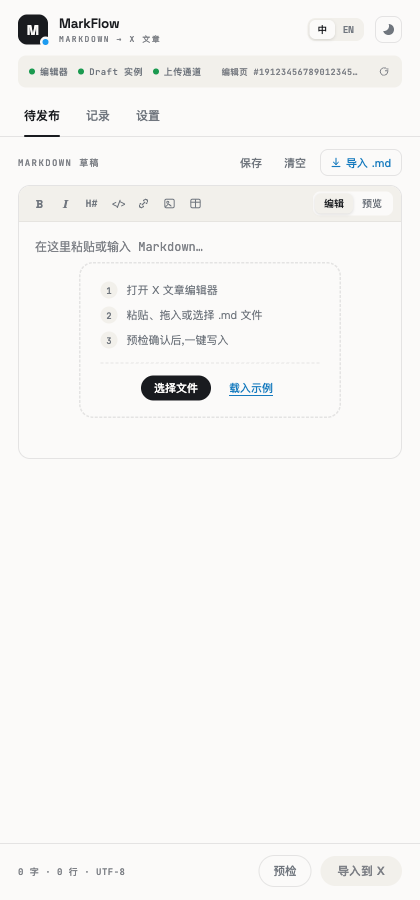
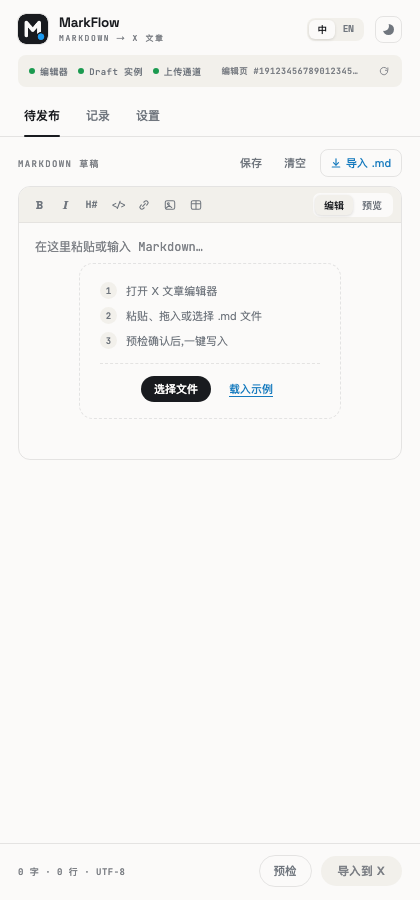
release: v0.5.1 — 版本号、CHANGELOG 定版、README 截图与隐私政策联系方式
做了什么:
- package.json 0.5.0 → 0.5.1;CHANGELOG [Unreleased] 定版为 [0.5.1] - 2026-11-16,注明同时发布未单独打 tag 的 [0.5.0];
  [0.5.0] 标为「未单独发布(随 0.5.1 发布)」;对比链接改为 v0.4.0...v0.5.1。
- README 状态改为 v0.5.1;docs/qa/shots 13 张实现截图按新 Logo 重拍(设置页显示 v0.5.1);
  docs/qa/README.md 补截图采集的模拟接口要求、订正倍率说明。
- 隐私政策联系方式改为 GitHub issues 地址(不留邮箱);发版清单与 HANDOFF 同步。

如何验证:
- tsc --noEmit、pnpm lint、pnpm test(930 通过);pnpm zip 产出 x-md-importer-0.5.1-chrome.zip,内含 manifest version 0.5.1、权限不变。
- extract-release-notes.mjs 0.5.1 能取出 [0.5.1] 段。

回滚:
- 合并前关闭 PR 即可;合并后 git revert,未打 tag 前无对外影响。

diff --git a/HANDOFF.md b/HANDOFF.md
@@ -8,7 +8,7 @@
 > - 更新时重点维护：`## 5 当前进度`、`## 9 待办与路线图`、`## 11 最近一次会话小结`，并在顶部更新「最后更新」。
 > - **工作流**：每批改动 **先 code review + 修复，再提交**；走 **feature 分支 → PR → 合并 main**，不直接推 main。
 
-**最后更新**:2026-11-13 · main `36734bb` + 分支 `fix/title-stale-dom`(标题残留修复,待合入)· **v0.5.0 不再单独打 tag,0.5.0 的改动随 0.5.1 一并发布**。2026-11-04 起:A11 切文章覆盖修复(PR #48)、0.5.0 / 0.5.1 回归清单合并为 `docs/qa/真机回归执行清单-v0.5.1-发版.md`(PR #49,现 45 条)、2026-11-13 会话的 5 个 PR(#50–#54:导入后守护与诊断、底部按钮折行 + 主按钮改名「导入到 X」、记录单删二次确认、偶发失败的性能单测、撤销诊断、**X 用旧快照覆盖正文时自愈**)均已合入 main。单测 930。**接下来**:合入标题修复 → 用 main 构建按 0.5.1 发版清单跑真机回归 → 按清单 §7 改版本号为 0.5.1、CHANGELOG 定版、打 `v0.5.1`。
+**最后更新**:2026-11-16 · 分支 `release/v0.5.1`(版本号 0.5.1、CHANGELOG 定版、README 截图重拍)· 0.5.1 真机回归 45 条已跑完(A 组全部通过,B / C 组除 R-C5 BLOCKED、R-C6 N/A 外全部通过;结果见清单 §5),期间修复焦点环被裁(PR #57)、侧边栏 Logo 改用扩展图标(PR #58)。v0.5.0 未单独打 tag,随 0.5.1 发布。单测 930。**接下来**:发版 PR 合并后打 `v0.5.1`、核对 GitHub Release 与 zip、发布隐私政策、上传商店;0.5.2 计划见 §9。
 
 ---
 
@@ -29,7 +29,7 @@
 - **本次刚做(2026-11-13,PR #50–#54 + 标题修复分支)**:从「导入后图片上方残留占位符」一路排查到根因——**X 会偶发把编辑器整体替换成更早的快照(正文 + 撤销历史一起),且常把图片先插在文末**;插件现在导入收尾先等 X 正文保存稳定,再逐张核对图片(错位归位、丢图补传、补不回如实报 `image-lost`),导入后 60 秒守护同步兜底,撤销时让位并打撤销诊断。顺带:底部操作栏按钮不折行、主按钮改名「导入到 X」、记录单删的二次确认看得见且防连点误删、解析器性能单测去偶发假红;在编辑页里新建草稿后导入标题不再丢(分支 `fix/title-stale-dom`)。真机回归 R-B20(回放旧快照 a–e)、R-A12 均通过。详见 §11。
 - **上一轮(2026-10-26 全面审查 + 三批修复)**:四路审查 → 31 项问题 + 9 条优化。第一批(`$$` 不吞正文、去标题按块、引用里的代码、草稿保存回声、报告记实际开关)与第二批(未闭合围栏 / HTML 注释 / frontmatter 转义 / 强调与链接、侧边栏状态与文案、隐私政策订正)并入 0.5.0;第三批进 0.5.1——解析边角(P6 / P11 / P12)、历史保存回声(H1)、草稿写失败退避重试(O7)、空稿不留 `x`(I2)、滚动到顶部滚对容器(I4)、ESLint 进 CI(C1)、一次解析共享(C2:写入 131 → 40 ms、按键 54 → 30 ms 且延后)、预览改为「写进 X 的样子」并去掉 react-markdown(C3:侧边栏 JS 450 → 294 KB)、设置 / 偏好共用同步 hook(C4)。单测 738 → 851。详见 §11。
 - **v0.5.0 定版内容**:两轮上线前审查的修复合集。① 8 月审查(`docs/review/上线前全面审查-2026-08-18.md`)五批修复——存储写失败可见、草稿/历史多窗口同步、tabId+articleId 双钥钉死、committed 区分、marker 剥离保文本、解析 12 项、备份恢复安全化、Toast 分型、对比度等;② 10 月发版前复审(`docs/review/发版前审查-2026-10-22.md`)阶段 0～3——pnpm pin 修复、A1 同行多张带链接图片(P0)、B1 图片阶段 settle 谓词等待(P0)、B3 `/compose/articles` 写入闸门、去 `tabs` 权限改 host_permissions、`minimum_chrome_version` 116、manifest `_locales` 国际化、A2 强调符 flanking、B2 超时晚到 MEDIA 追回 + orphan 审计、C2 设置多窗口同步、C9 本地图文件名索引、B9 回传校验、B10 SSRF 补漏、字体只打 latin woff2(1.11MB→约 640KB)。单测 307→646。版本号 0.5.0、CHANGELOG 定版、README / 隐私政策 / NOTICE / QA T16～T21 已同步。〔v0.4.0〕数学块 `$$` → X 原生 LaTeX 块(真机验证)。 〔打 tag 前复审修复(2026-10-23,本分支)〕对 PR #33 的五路审查 → 对抗性核实 → 方案评审后,修复核实属实的 #33 引入回归与旧问题:本地图同名多处报 `local-ambiguous`(不再静默选错图)、删除末轮 FIFO(无法归属的晚到图如实上报 `orphan-media` / `media-order-uncertain`)、权限被拒 toast 只计确实未授权的域名并剔除被拦主机、ask 拒绝权限后确认覆盖不二次弹窗、`isBlockedHost` 补漏、标题抽取改取解析主循环上报的标题(P3)并隔离解析开关(P7)、`findClosing` 记忆化(P1/P2)、列表续行 `2024.`(P5)、frontmatter `cover` 整行判定(P6)。P4(列表下 4 空格缩进的围栏 / 引用 / 标题、Tab 制表位)推迟 0.5.1,见 backlog。
-- **还没做(发版前)**:① 合入 `fix/title-stale-dom`;② 0.5.1 真机回归(`docs/qa/真机回归执行清单-v0.5.1-发版.md`,用合入后的 main 构建,A 19 / B 20 / C 6 共 45 条,R-B20 回放用例的 QA 脚本见清单)→ 按清单 §7 改版本号为 0.5.1、CHANGELOG `[Unreleased]` 定版 → 打 `v0.5.1`;③ 把 `docs/privacy-policy.md` 发布到公开地址并补联系邮箱;④ 商店上传,后台填权限理由与隐私 URL;⑤ I5 / I6 / I7 真机取证(`docs/qa/真机取证脚本-第三批阶段B.md`)。发版后待办见 `docs/review/backlog-2026-10-22.md`。
+- **还没做(发版前)**:① 合入 `fix/title-stale-dom`;② 0.5.1 真机回归(`docs/qa/真机回归执行清单-v0.5.1-发版.md`,用合入后的 main 构建,A 19 / B 20 / C 6 共 45 条,R-B20 回放用例的 QA 脚本见清单)→ 按清单 §7 改版本号为 0.5.1、CHANGELOG `[Unreleased]` 定版 → 打 `v0.5.1`;③ 把 `docs/privacy-policy.md` 发布到公开地址(联系方式已定为 GitHub issues 地址);④ 商店上传,后台填权限理由与隐私 URL;⑤ I5 / I6 / I7 真机取证(`docs/qa/真机取证脚本-第三批阶段B.md`)。发版后待办见 `docs/review/backlog-2026-10-22.md`。
 - **明确不做(产品决策)**：**行内数学 `$…$`** 与 **行内图片**——X 的 LaTeX / 媒体都是**块级** Insert 项,无行内原生承载,与「行内代码」同策略:保留原文、能力面板如实告知。不再列为候选,勿再评估。
 - **真机验证(本轮,已通过)**：setext 标题两种下划线均成标题且不多出分割线 · 任务列表 ☐/☑ 正确、加粗精确落在文字上未被符号带偏 · `[x]无空格` 原样保留 · 全角空格列表项正常 · emoji/CJK 后的加粗 offset 精确 · 远程图上传 + 封面设置成功（含带查询参数的 `pbs.twimg.com` URL）· 推文嵌入 / 表格 / 代码块 / 分割线均原生。
   - 期间一次图片上传失败经排查为**该 Wikimedia URL 本身不可达**，非代码问题；降级链路如实把 markdown 原文写回正文、未丢内容，行为符合设计。样例已改用 `pbs.twimg.com`。

diff --git a/CHANGELOG.md b/CHANGELOG.md
@@ -7,7 +7,9 @@
 
 ## [Unreleased]
 
-> 2026-10-26 全面审查第三批阶段 A、阶段 B 的 I2 / I4 与阶段 C1–C4(见 `docs/review/修复方案-2026-10-26-第三批.md`),计划随 0.5.1 发布。v0.5.0 不再单独打 tag(2026-11-04 真机回归 A11 未通过,决定 0.5.0 的改动随 0.5.1 一并发布)。单测 818 → **930**。
+## [0.5.1] - 2026-11-16
+
+> 2026-10-26 全面审查第三批阶段 A、阶段 B 的 I2 / I4 与阶段 C1–C4(见 `docs/review/修复方案-2026-10-26-第三批.md`),以及 2026-11 发版回归中的修复。**本版同时发布未单独打 tag 的 [0.5.0] 全部改动**(2026-11-04 真机回归 A11 未通过,决定 0.5.0 随 0.5.1 一并发布;从 0.4.0 升级请一并阅读下方 [0.5.0] 段)。发版前按 `docs/qa/真机回归执行清单-v0.5.1-发版.md` 完成 45 条真机回归(A 组 19 条全部通过)。单测 818 → **930**。
 
 ### 修复
 
@@ -40,8 +42,10 @@
 - **CI 加 ESLint(O9,第三批阶段 C1)**:新增 `pnpm lint`,只开 `react-hooks/rules-of-hooks` 与 `react-hooks/exhaustive-deps` 两条规则(不用插件的 recommended 预设,其 React Compiler 规则与本项目无关),CI 在类型检查后执行;有意省略依赖处须写豁免注释,豁免失效时报错。新增 devDependencies:`eslint`、`@typescript-eslint/parser`、`eslint-plugin-react-hooks`。
 - **删除死代码(O8)**:`stripFirstImageLine` / `isImageLine`(仅测试在用)、context 里无人消费的 `editorHasContent`、`useTheme.setAccent` 与 `themes.ACCENTS`;设置页与素材板各一份的文件夹错误文案合并为 `lib/ui/folderErrText`。
 
-## [0.5.0] - 2026-10-22
+## [0.5.0] - 未单独发布(随 0.5.1 发布)
 
+> 本段改动未打 tag、未单独发布,随 0.5.1 一并发布(原定 2026-10-22)。
+>
 > 上线前两轮审查的修复合集:2026-08 全面审查(2 P0 / 12 P1 / 31 P2,见 `docs/review/上线前全面审查-2026-08-18.md`)的五批修复,加 2026-10 发版前复审(见 `docs/review/发版前审查-2026-10-22.md`)的阶段 0～3 修复,以及打 tag 前对 PR #33 的复审修复(见 `docs/review/修复方案-2026-10-23.md`:本地图同名歧义、晚到图片不再猜归属、权限提示与 ask 重复弹窗、解析标题单一来源与性能、SSRF 补漏),以及 2026-10-26 全面审查第一批(见 `docs/review/修复方案-2026-10-26.md`:`$$` 公式不再吞正文、去标题按块不丢上下文、引用里的代码原样保留、草稿不被自己的保存回声回退、报告记实际解析开关)与第二批阶段 A(见 `docs/review/修复方案-2026-10-26-第二批.md`:未闭合围栏到文末按代码写入、HTML 注释不写入、frontmatter 引号转义、强调不截断链接、链接 title 不截断 URL)与阶段 B(新建文章页状态、拖放文字、重探不闪烁、本地封面入口、报告卡三态、记录上限即时生效、清除数据断开文件夹、文案本地化、隐私政策订正);另含 v0.4.0 tag 之后才合入 main 的 PR #31(存储加载路径校验)。主线是**写入安全**(钉死目标文章、等 React 提交、超时晚到图片追回)、**解析正确性**(CommonMark 边角三十余项)、**数据不丢**(写失败可见、多窗口同步、恢复安全化)与**上架合规**(权限最小化、manifest 国际化、隐私政策)。单测 307(v0.4.0 tag)→ **818**。
 >
 > 编号约定:`P0-x`/`P1-x`/`P2-x` 对应 2026-08 审查报告;`A`(解析)/`B`(注入)/`C`(工作区与 UI)/`D`(发版合规)编号对应 2026-10 发版前审查。同一问题 8 月修了一半、10 月补完的,下面合并为一条。
@@ -407,8 +411,9 @@ v0.2.0 发布前按 `docs/qa/真机回归测试-v0.2.0加固批.md` 做全量真
 - 「写入 X 文章」、预检、连接文件夹等为 **mock 时序演示**（`lib/workspace/importService.ts`、`lib/bridge/useConnection.ts` 等），真实注入引擎待 M1 接入。
 - 设计稿「演示专用」内容（模拟 X 编辑页、setTimeout 时序）未照搬进产品。
 
-[Unreleased]: https://github.com/jiangding01/x-md-importer/compare/v0.5.0...HEAD
-[0.5.0]: https://github.com/jiangding01/x-md-importer/compare/v0.4.0...v0.5.0
+[Unreleased]: https://github.com/jiangding01/x-md-importer/compare/v0.5.1...HEAD
+[0.5.1]: https://github.com/jiangding01/x-md-importer/compare/v0.4.0...v0.5.1
+[0.5.0]: https://github.com/jiangding01/x-md-importer/compare/v0.4.0...v0.5.1
 [0.4.0]: https://github.com/jiangding01/x-md-importer/compare/v0.3.0...v0.4.0
 [0.3.0]: https://github.com/jiangding01/x-md-importer/compare/v0.2.2...v0.3.0
 [0.2.2]: https://github.com/jiangding01/x-md-importer/compare/v0.2.1...v0.2.2

diff --git a/docs/qa/README.md b/docs/qa/README.md
@@ -13,10 +13,10 @@
 
 ## 采集口径（复现方式）
 
-- 侧栏宽度 **420px**（@2x 采集）；富状态视口 **1700px**、空态/弹窗 **900px**。
+- 侧栏宽度 **420px**（实现截图为 1x；设计稿对比时可 @2x 采集）；富状态视口 **1700px**、空态/弹窗 **900px**。
 - 设计稿 = `~/Downloads/x-importer/design_handoff_markflow/MarkFlow v3.dc.html`（Vue 原型，需同目录 `support.js`）。
 - 实现 = `pnpm build` 产物 `.output/chrome-mv3/sidepanel.html`，静态托管后用 Playwright 驱动。
-  - 2026-11-13 起侧边栏依赖扩展 API（不在扩展环境会报 “This script should only be loaded in a browser extension” 并白屏）：静态托管时须在页面脚本运行前（`page.addInitScript`）注入模拟的 `globalThis.browser`（`runtime.id` 非空；`tabs.query` 返回一个 `https://x.com/compose/articles/edit/<id>` 的活动标签；`tabs.sendMessage` 对 `markflow:probe` 回「编辑器 / Draft 实例 / 上传通道均就绪、已有内容」，对 `markflow:import` 回 `ok:true`）与只含 `runtime.id` 的 `globalThis.chrome`（不提供 `chrome.storage`，存储自动回退 localStorage）。待发布页截图即按此方式采集：载入示例 → 预览 → 展开能力映射 → 预检 → 导入到 X → 覆盖。
+  - 2026-11-13 起侧边栏依赖扩展 API（不在扩展环境会报 “This script should only be loaded in a browser extension” 并白屏）：静态托管时须在页面脚本运行前（`page.addInitScript`）注入模拟的 `globalThis.browser`（`runtime.id` 非空；`tabs.query` 返回一个 `https://x.com/compose/articles/edit/<id>` 的活动标签；`tabs.sendMessage` 对 `markflow:probe` 回「编辑器 / Draft 实例 / 上传通道均就绪、已有内容」，对 `markflow:import` 回 `ok:true`）与只含 `runtime.id` 的 `globalThis.chrome`（不提供 `chrome.storage`，存储自动回退 localStorage）。两者的 `runtime` 还须提供 `getManifest()`（返回含 `version` 的对象），否则设置页底部版本号显示 `vdev`；`permissions.contains` / `permissions.request` 返回 `true`，否则导入时会弹「远程图未获授权」。截图为 420px 宽的 1x 图（2026-11-16 按此口径重拍）。待发布页截图即按此方式采集：载入示例 → 预览 → 展开能力映射 → 预检 → 导入到 X → 覆盖。
 - 记录 Tab 通过 `localStorage['markflow:history']` 注入与设计稿相同的 3 条数据以做 1:1 对比。
 
 ## 覆盖矩阵（13 组）

diff --git a/docs/qa/真机回归执行清单-v0.5.1-发版.md b/docs/qa/真机回归执行清单-v0.5.1-发版.md
@@ -20,7 +20,7 @@
 ### 0.2 发版前置(用户侧,回归前确认)
 - [ ] 早期信号:X 编辑器结构没改版——用 main 构建跑一次「纯文本 + 1 张远程图」基础导入能成功(R-A1 冒烟可兼作);失败则先转 `/hunt` 排查,不要继续本清单。
 - [ ] 构建基于 main `f12a65d`(PR #48 合并)或之后的 main;不要用 `782d306` 或旧分支。
-- [ ] `docs/privacy-policy.md` 已发布到公开地址并记下 URL(商店上传时用,非本清单用例);隐私政策里的联系邮箱占位已补。
+- [ ] `docs/privacy-policy.md` 已发布到公开地址并记下 URL(商店上传时用,非本清单用例);隐私政策里的联系方式已补(2026-11-16 定为 GitHub issues 地址,不留邮箱)。
 
 ### 0.3 构建与加载
 ```bash
@@ -1094,5 +1094,5 @@ chrome.storage.local.set({ 'markflow:opts': 'not-an-object' })
      - **`[0.5.0]` 段(2026-11-04 定):** 保留原内容与位置,标题改为 `## [0.5.0] - 未单独发布(随 0.5.1 发布)`,段首加一行说明「本段改动未打 tag、未单独发布,随 0.5.1 一并发布」;不并入 `[0.5.1]`(两批改动的审查来源不同,分段便于追溯)。
   2. 提交、开 PR、CI 绿后合并。
   3. 在该合并提交上打带注释的 tag `v0.5.1` 并推送,release 工作流构建 zip 并发 GitHub Release;核对 Release 与 zip(可顺带复核设置页底部版本号为 `v0.5.1`)。
-  4. 隐私政策:发布到公开地址(联系邮箱已补),并把公开版的改动同步回 `docs/privacy-policy.md`,保证仓库与公开版一致。
+  4. 隐私政策:发布到公开地址(联系方式为 GitHub issues 地址),并把公开版的改动同步回 `docs/privacy-policy.md`,保证仓库与公开版一致。
   5. 商店上传:zip 上传;商店后台填权限理由(`*://*/*` 仅按文章图片来源逐 origin 运行时申请)与隐私政策公开 URL。

diff --git a/README.md b/README.md
@@ -87,7 +87,7 @@ Chrome 扩展（Manifest V3，Chrome ≥ 116）· WXT + React 18 + TypeScript ·
 
 **其它**：四套界面主题（极简 / 控制台 / 纸感 / 玻璃，各分明暗，一键切换）· 中英双语 · 本地优先、无遥测，不向开发者服务器发送任何数据 · **永不自动发布**（发布按钮永远留给用户）。
 
-> **状态（v0.5.0）**：核心链路已全线打通并真机验证——正文（含代码块 / 表格 / LaTeX 公式 / 图片 / 封面 / 推文 / 分割线）真实写入 X 编辑器，本地图按需授权、图片压缩、探针自动重探、标题冲突询问均已落地。v0.5.0 完成上线前两轮全面审查的修复（写入目标钉死、图片阶段等待提交、解析正确性、多窗口同步、权限最小化与 manifest 国际化），准备上架 Chrome 应用商店。演进细节见 [CHANGELOG.md](./CHANGELOG.md)，进度与规划见 [HANDOFF.md](./HANDOFF.md)。
+> **状态（v0.5.1）**：核心链路已全线打通并真机验证——正文（含代码块 / 表格 / LaTeX 公式 / 图片 / 封面 / 推文 / 分割线）真实写入 X 编辑器，本地图按需授权、图片压缩、探针自动重探、标题冲突询问均已落地。v0.5.1 合并发布上线前多轮全面审查的修复（写入目标钉死、图片阶段等待提交、导入后被 X 旧快照覆盖时自愈、解析正确性、多窗口同步、权限最小化与 manifest 国际化），并通过 45 条真机回归，准备上架 Chrome 应用商店。演进细节见 [CHANGELOG.md](./CHANGELOG.md)，进度与规划见 [HANDOFF.md](./HANDOFF.md)。
 
 ## 快速开始
 

diff --git a/docs/privacy-policy.md b/docs/privacy-policy.md
@@ -47,7 +47,7 @@ MarkFlow(「本扩展」)是一个把 Markdown 导入 X(原 Twitter)文章编辑
 
 ### 7. 联系方式
 
-如有疑问,请联系:<!-- 联系邮箱 -->
+如有疑问,请在 GitHub 提交 issue:<https://github.com/jiangding01/x-md-importer/issues>。
 
 ---
 
@@ -92,4 +92,4 @@ If this policy changes, it will be updated together with an extension release an
 
 ### 7. Contact
 
-Questions: <!-- 联系邮箱 -->
+Questions: open an issue at <https://github.com/jiangding01/x-md-importer/issues>.
